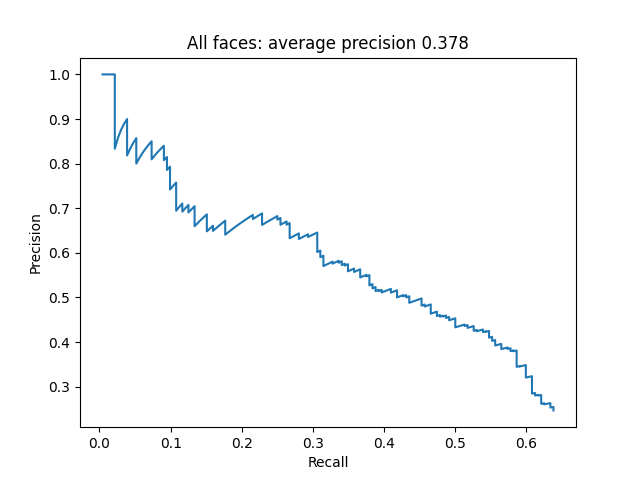
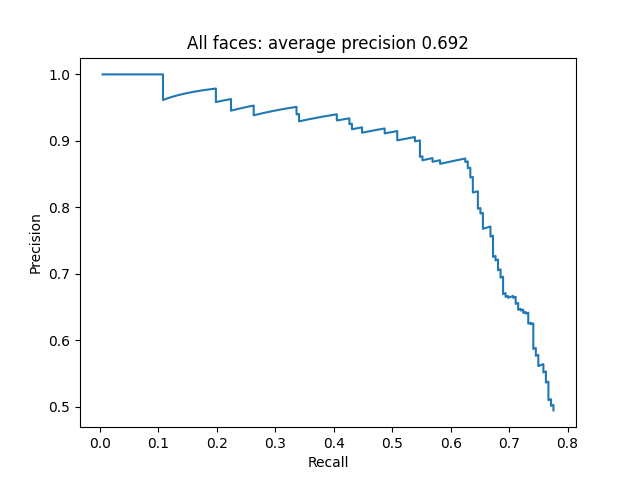
Done first task

diff --git a/main.py b/main.py
@@ -1,15 +1,11 @@
 import os
-import time
 import cv2 as cv
 import numpy as np
-import random
 import pickle
 import timeit
 
-from skimage import data, exposure
 from skimage.feature import hog
 from sklearn import svm
-from sklearn.model_selection import train_test_split
 
 import matplotlib.pyplot as plt
 
@@ -30,14 +26,11 @@ VALIDATION_PATH = "./files/validare/simpsons_validare/"
 GROUND_TRUTH_PATH = "./files/validare/task1_gt.txt"
 
 # Sliding window parameters
-sliding_window_size = (36, 36)
-sliding_window_step_size = 2
+sliding_window_size = (8, 8)
+sliding_window_step_size = 1
 
-sliding_window_predict_size = (36, 36)
-sliding_window_predict_step_size = 2
-
-# Data gathering parameters
-image_resize_factor = 1
+train_window_size = (36, 36)
+hog_pixels_per_cell = (6, 6)
 
 # Save images paths and their labels
 images = []
@@ -61,13 +54,6 @@ def image_pyramid(img, scale=1.5, minsize=(128, 128)):
             break
 
         yield img
-
-
-# Function to yield a window of an image
-def image_sliding_window(img, step_size, window_size):
-    for y in range(0, img.shape[0], step_size):
-        for x in range(0, img.shape[1], step_size):
-            yield x, y, img[y:y + window_size[1], x:x + window_size[0]]
 
 
 # Show image with all bounding boxes for faces
@@ -247,6 +233,9 @@ def main():
                 face_hog_image = hog(image, pixels_per_cell=(6, 6), cells_per_block=(2, 2), feature_vector=True)
                 images_with_faces_train_data.append(face_hog_image)
 
+                face_hog_image = hog(np.fliplr(image), pixels_per_cell=(6, 6), cells_per_block=(2, 2), feature_vector=True)
+                images_with_faces_train_data.append(face_hog_image)
+
             images_with_faces_train_data = np.array(images_with_faces_train_data)
             np.save(positive_descriptors_path, images_with_faces_train_data)
 
@@ -257,7 +246,10 @@ def main():
         else:
             for file in os.listdir(NEGATIVE_EXAMPLES_PATH):
                 image = cv.imread(NEGATIVE_EXAMPLES_PATH + file, cv.IMREAD_GRAYSCALE)
-                non_face_hog_image = hog(image, pixels_per_cell=(6, 6), cells_per_block=(2, 2), feature_vector=True)
+                non_face_hog_image = hog(image, pixels_per_cell=hog_pixels_per_cell, cells_per_block=(2, 2), feature_vector=True)
+                images_without_faces_train_data.append(non_face_hog_image)
+
+                non_face_hog_image = hog(np.fliplr(image), pixels_per_cell=hog_pixels_per_cell, cells_per_block=(2, 2), feature_vector=True)
                 images_without_faces_train_data.append(non_face_hog_image)
 
             images_without_faces_train_data = np.array(images_without_faces_train_data)
@@ -272,7 +264,6 @@ def main():
         # Combine training data
         train_x = np.concatenate((np.squeeze(images_with_faces_train_data), np.squeeze(images_without_faces_train_data)), axis=0)
 
-    # Define classifier
     classifier = svm.LinearSVC(C=1)
 
     if TRAIN_MODEL:
@@ -297,25 +288,6 @@ def main():
         classifier = pickle.load(open(filename, 'rb'))
         print("SVM Loaded!")
 
-    # positive_scores = []
-    # negative_scores = []
-    # scores = classifier.decision_function(train_x)
-    #
-    # for score in scores:
-    #     if score > 0:
-    #         positive_scores.append(score)
-    #     else:
-    #         negative_scores.append(score)
-    #
-    # plt.plot(np.sort(positive_scores))
-    # plt.plot(np.zeros(len(negative_scores) + 20))
-    # plt.plot(np.sort(negative_scores))
-    # plt.xlabel('Nr example antrenare')
-    # plt.ylabel('Scor clasificator')
-    # plt.title('Distributia scorurilor clasificatorului pe exemplele de antrenare')
-    # plt.legend(['Scoruri exemple pozitive', '0', 'Scoruri exemple negative'])
-    # plt.show()
-
     final_detections = []
     final_file_paths = []
     final_scores = []
@@ -327,41 +299,53 @@ def main():
         # Sliding window for image
         loaded_image = cv.imread('./files/validare/simpsons_validare/' + file)
         loaded_image_copy = loaded_image.copy()
-        loaded_image_grayscale = cv.cvtColor(loaded_image, cv.COLOR_BGR2GRAY)
+        loaded_image_hsv = cv.cvtColor(loaded_image, cv.COLOR_BGR2HSV)
+        loaded_image_hsv_yellow = cv.inRange(loaded_image_hsv, low_yellow, high_yellow)
 
-        sliding_window_scale = 1.5
+        sliding_window_scale = 1.2
         detections = []
         scores = []
 
-        for scale_factor, image_resize in enumerate(image_pyramid(loaded_image, scale=sliding_window_scale, minsize=(40, 40))):
-            for (x, y, window) in image_sliding_window(image_resize, sliding_window_predict_step_size, sliding_window_predict_size):
-                if window.shape[0] != sliding_window_predict_size[1] or window.shape[1] != sliding_window_predict_size[0]:
-                    continue
+        scale = 0.18
+        scale_y = 0.15
 
-                window = cv.resize(window, sliding_window_size)
-                patch_hsv = cv.cvtColor(window, cv.COLOR_BGR2HSV)
-                yellow_patch = cv.inRange(patch_hsv, low_yellow, high_yellow)
+        # Sliding window
+        while scale <= 1 and scale_y <= 1:
+            image_resize = cv.resize(loaded_image, (0, 0), fx=scale, fy=scale_y)
+            image_resize_gray = cv.cvtColor(image_resize, cv.COLOR_BGR2GRAY)
+            image_resize_hog = hog(image_resize_gray, pixels_per_cell=hog_pixels_per_cell, cells_per_block=(2, 2), feature_vector=False)
 
-                # Check if image contains some yellow, if yes, append to negative examples
-                if yellow_patch.mean() >= 70:
-                    window = loaded_image_grayscale[y:y + window.shape[0], x:x + window.shape[1]]
-                    predict_hog_window = hog(window, pixels_per_cell=(6, 6), cells_per_block=(2, 2), feature_vector=False)
-                    score = np.dot(predict_hog_window.flatten(), classifier.coef_.T) + classifier.intercept_[0]
+            number_of_cols = image_resize.shape[1] // hog_pixels_per_cell[0] - 1
+            number_of_rows = image_resize.shape[0] // hog_pixels_per_cell[0] - 1
+            number_of_cell_in_template = train_window_size[0] // hog_pixels_per_cell[0] - 1
 
-                    if score[0] > 0.5:
-                        scores.append(score[0])
-                        if scale_factor > 0:
-                            detections.append((x, y, x + window.shape[0] * int(sliding_window_scale ** scale_factor), y + window.shape[1] * int(sliding_window_scale ** scale_factor)))
-                        else:
-                            detections.append((x, y, x + window.shape[0], y + window.shape[1]))
-                        # final_scores.append(score[0])
+            # Slide across hog cells
+            for y in range(0, number_of_rows - number_of_cell_in_template, sliding_window_step_size):
+                for x in range(0, number_of_cols - number_of_cell_in_template, sliding_window_step_size):
+                    x_min = int(x * hog_pixels_per_cell[1] * 1 // scale)
+                    y_min = int(y * hog_pixels_per_cell[0] // scale_y)
+                    x_max = int((x * hog_pixels_per_cell[1] + train_window_size[1]) * 1 // scale)
+                    y_max = int((y * hog_pixels_per_cell[0] + train_window_size[0]) * 1 // scale_y)
 
-                # Display sliding window
-                if DISPLAY_SLIDING_WINDOW:
-                    clone = image_resize.copy()
-                    cv.rectangle(clone, (x, y), (x + sliding_window_predict_size[0], y + sliding_window_predict_size[1]), (0, 255, 0), 2)
-                    cv.imshow("Window", clone)
-                    cv.waitKey(1)
+                    # Check if image contains some yellow
+                    if loaded_image_hsv_yellow[y_min:y_max, x_min:x_max].mean() >= 70:
+                        descriptor = image_resize_hog[y:y + number_of_cell_in_template, x:x + number_of_cell_in_template].flatten()
+                        score = np.dot(descriptor, classifier.coef_.T) + classifier.intercept_[0]
+
+                        # Append score
+                        if score[0] > 0:
+                            scores.append(score[0])
+                            detections.append((x_min, y_min, x_max, y_max))
+
+                    # Display sliding window
+                    if DISPLAY_SLIDING_WINDOW:
+                        clone = image_resize.copy()
+                        cv.rectangle(clone, (x, y), (x + sliding_window_size[1], y + sliding_window_size[0]), (0, 255, 0), 2)
+                        cv.imshow("Window", clone)
+                        cv.waitKey(1)
+
+            scale *= 1.04
+            scale_y *= 1.04
 
         # for detection in detections:
             # cv.rectangle(loaded_image_copy, (detection[0], detection[1]), (detection[2], detection[3]), (0, 255, 0), 1)

diff --git a/generate_examples.py b/generate_examples.py
@@ -82,7 +82,7 @@ for image_path in images:
 
     # Try to get around 30 negative examples per image
     if GENERATE_NON_FACES:
-        for i in range(35):
+        for i in range(7):
             for j in range(4):
                 # Select random coords
                 rand_y, rand_x = random.randint(0, image.shape[0] - int(sliding_window_size[1] * (1.5**j) + 1)), random.randint(0, image.shape[1] - int(sliding_window_size[0] * (1.5**j) + 1))
